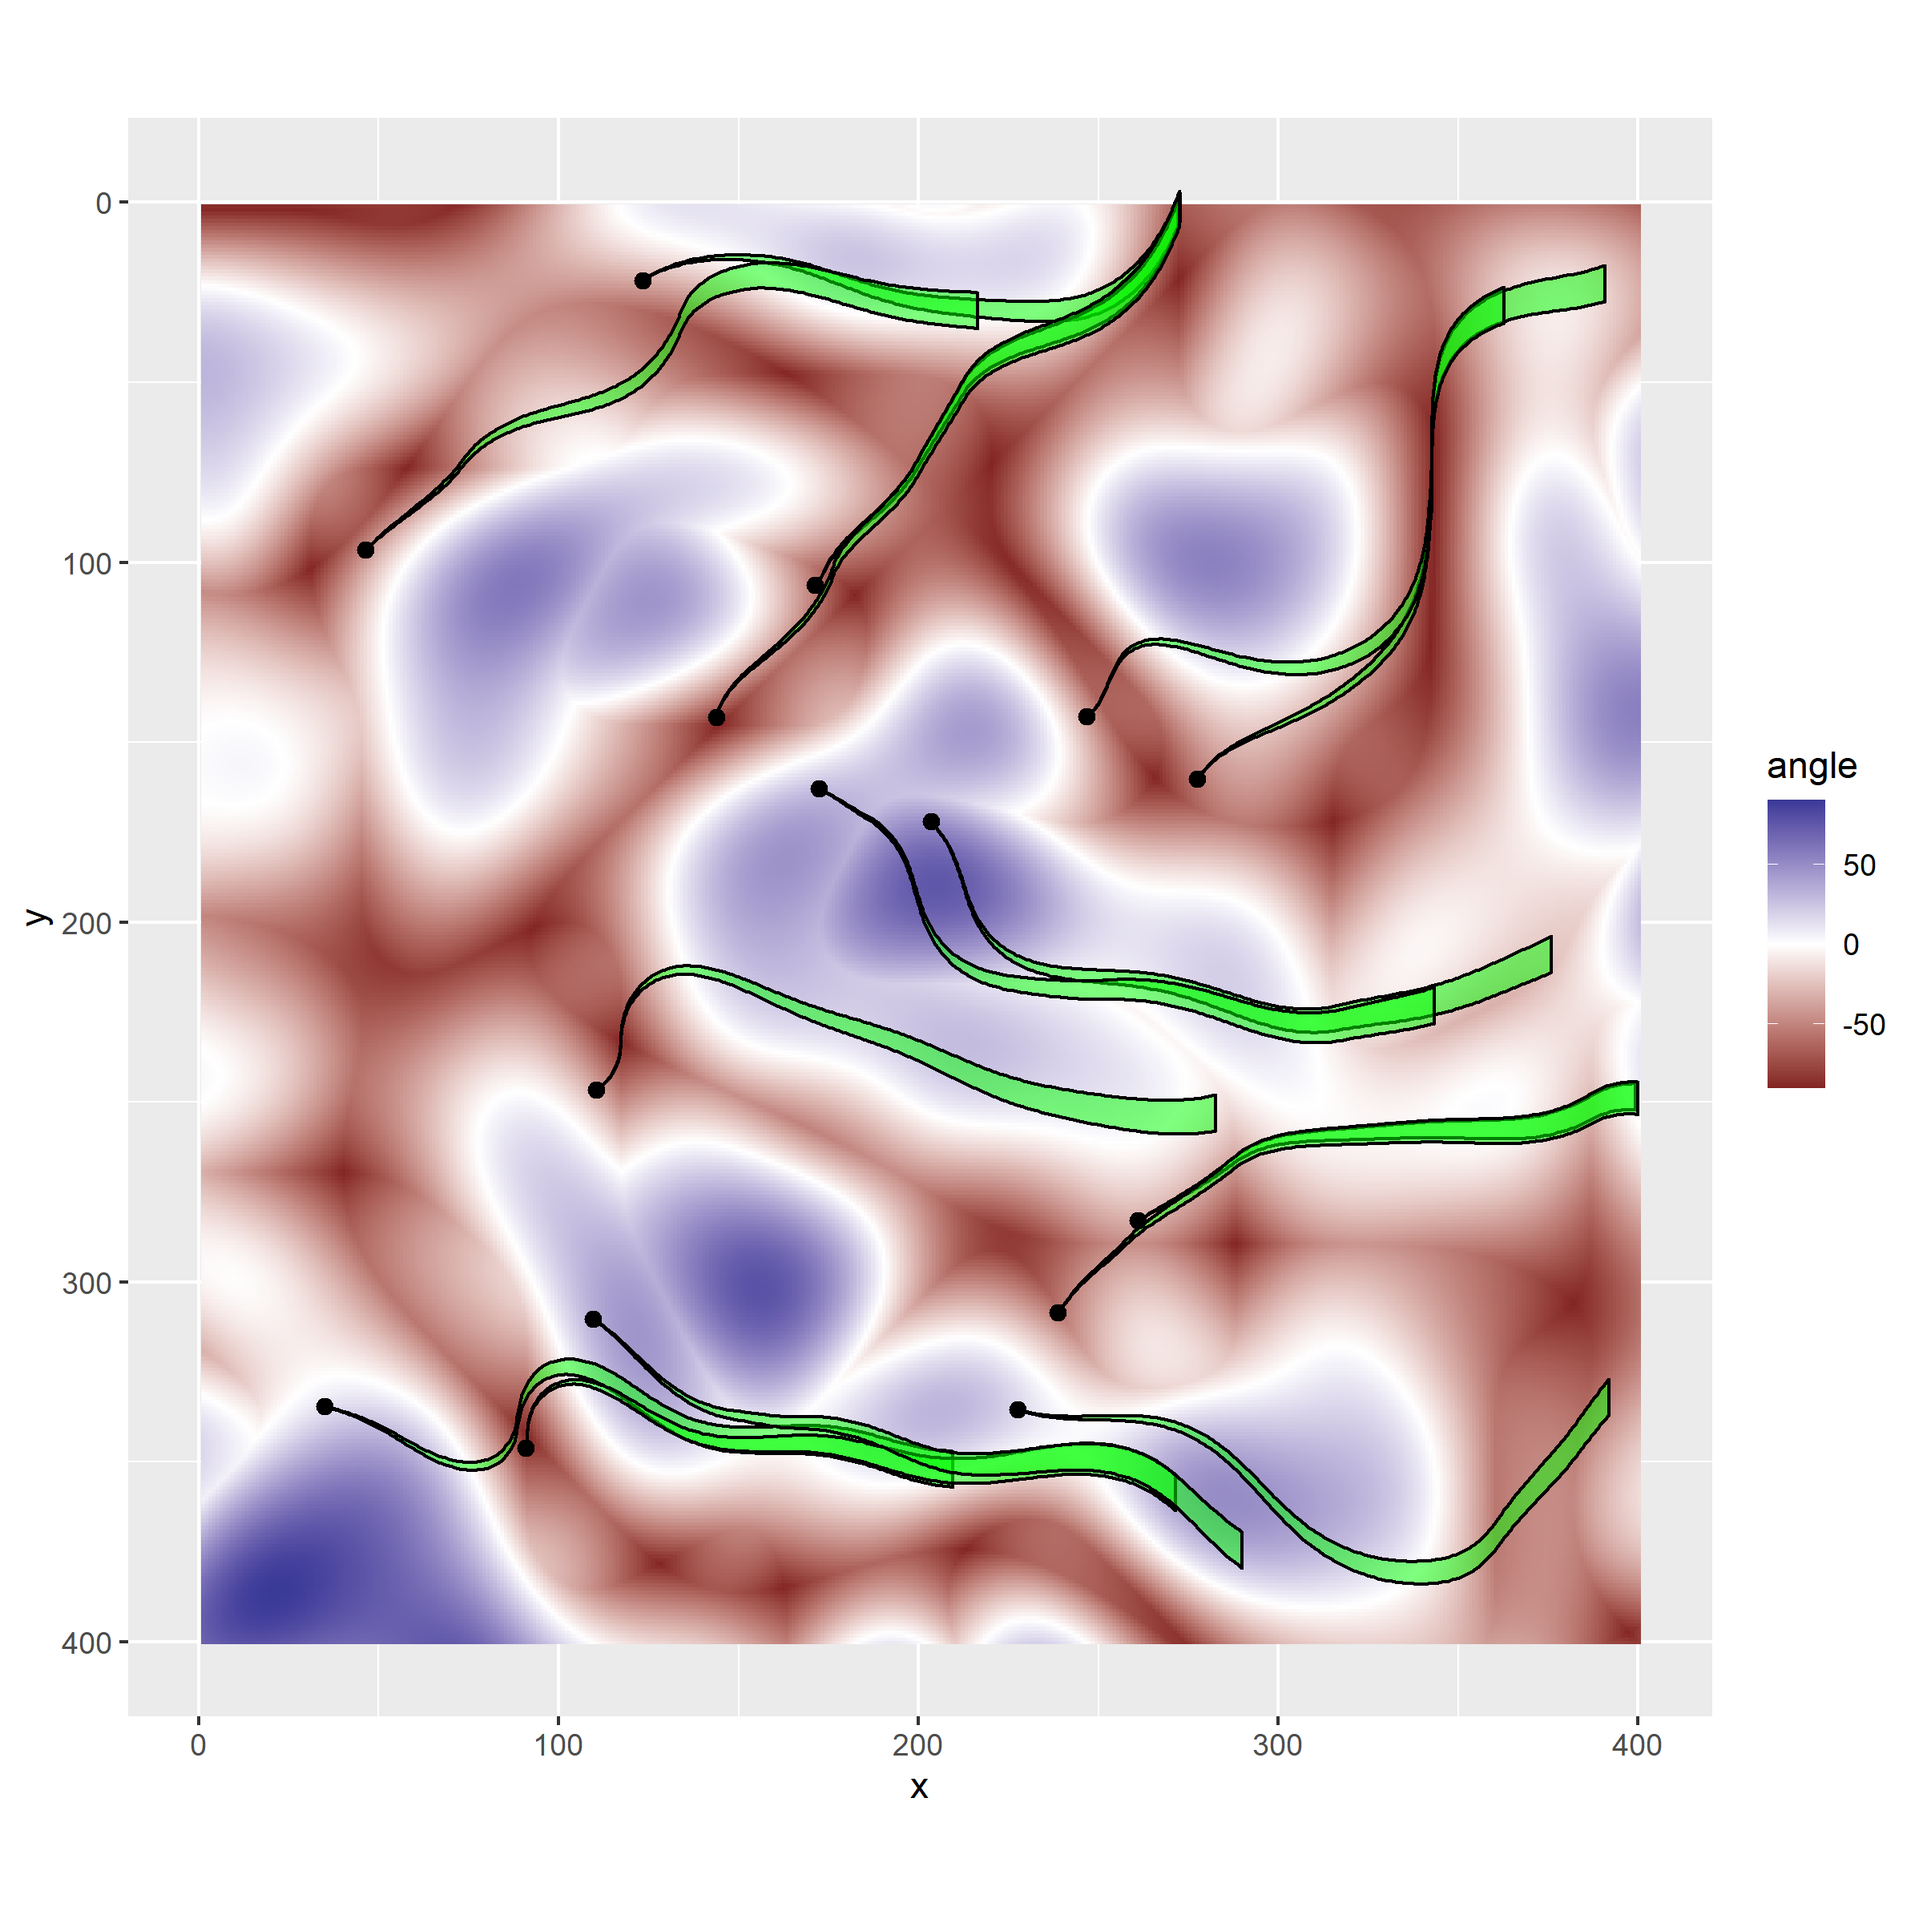
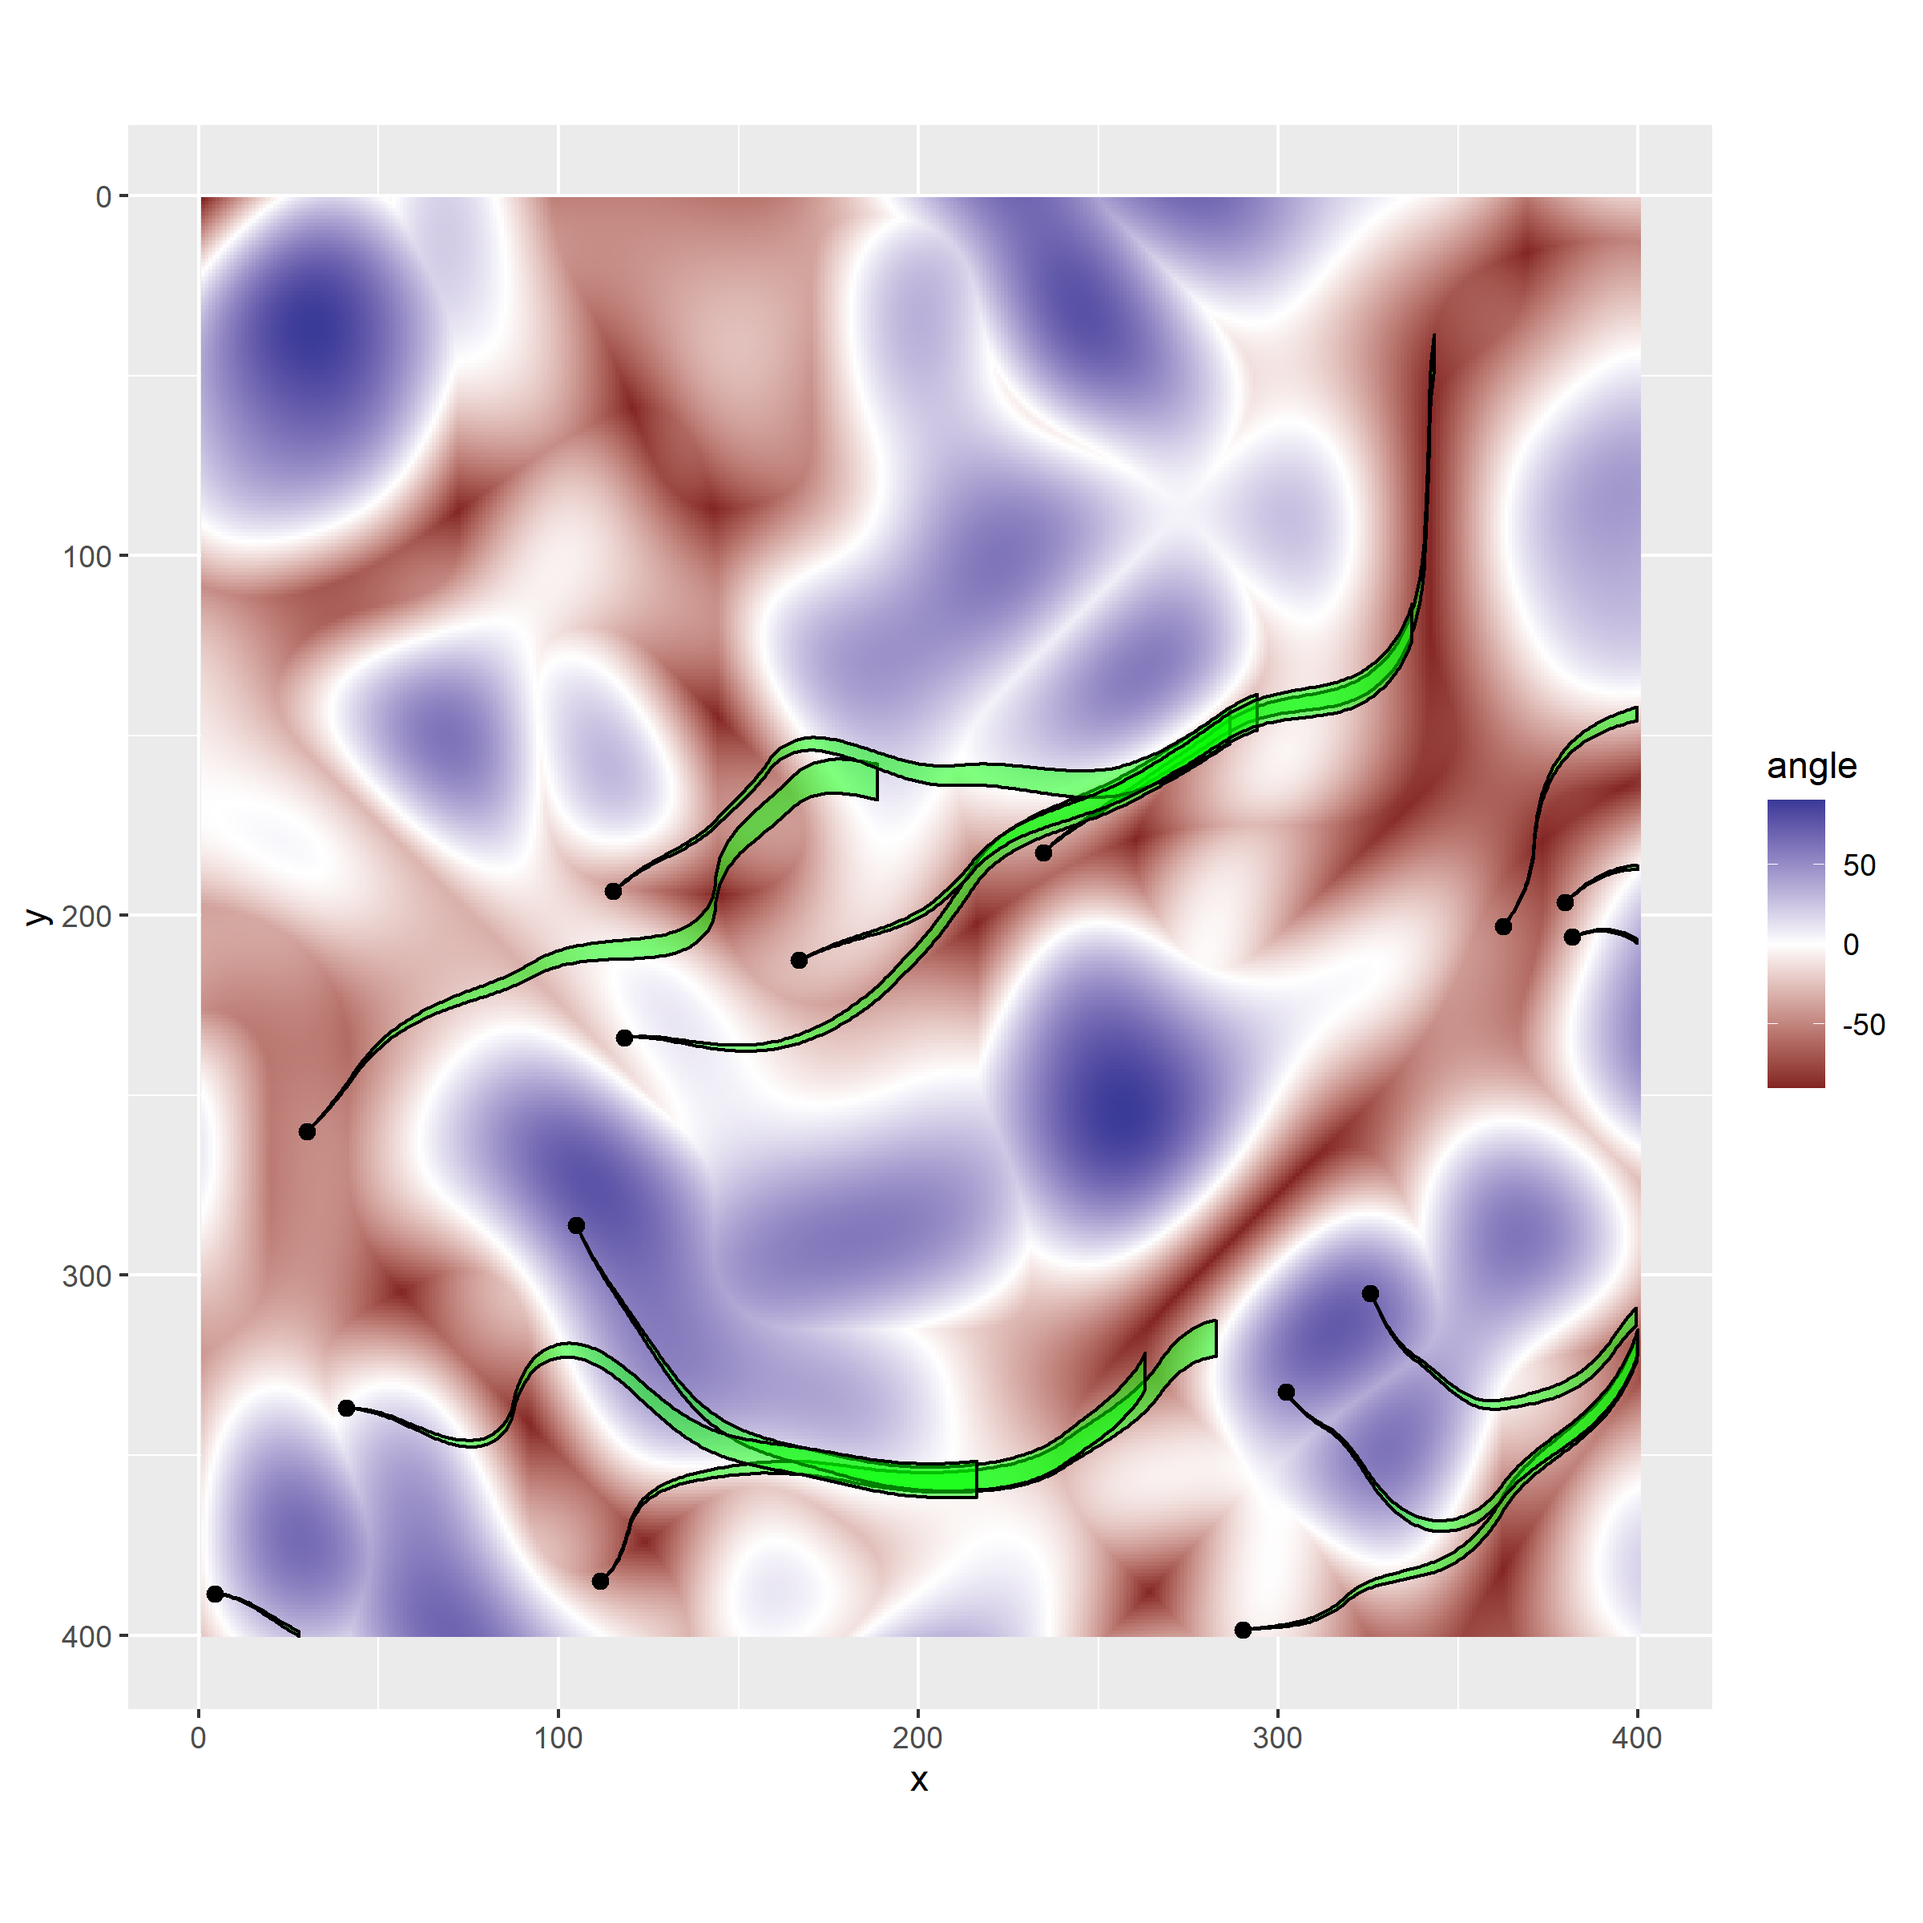
Change seed

diff --git a/README.md b/README.md
@@ -38,7 +38,8 @@ library(tidyverse)
         of noise)
 
 ``` r
-set.seed(1)
+global_seed <- 4
+set.seed(global_seed)
 x_side <- 400
 y_side <- 400
 
@@ -166,7 +167,7 @@ ff_polys <- function(
     the x and y coordinates of each polygon
 
 ``` r
-set.seed(10)
+set.seed(global_seed)
 
 # Define starting points and flow line parameters
 starting_params <-
@@ -227,7 +228,7 @@ ggplot() +
     to the centre of the angle matrix
 
 ``` r
-set.seed(1)
+set.seed(global_seed)
 n_flow_lines <- 2000
 
 # Define starting points and flow line parameters
@@ -319,7 +320,7 @@ m <-
 -   Generate flow lines and plot as above
 
 ``` r
-set.seed(1)
+set.seed(global_seed)
 starting_params <-
   tibble(x_start = runif(n_flow_lines, 1, ncol(m)),
          y_start = runif(n_flow_lines, 1, nrow(m))) |>
